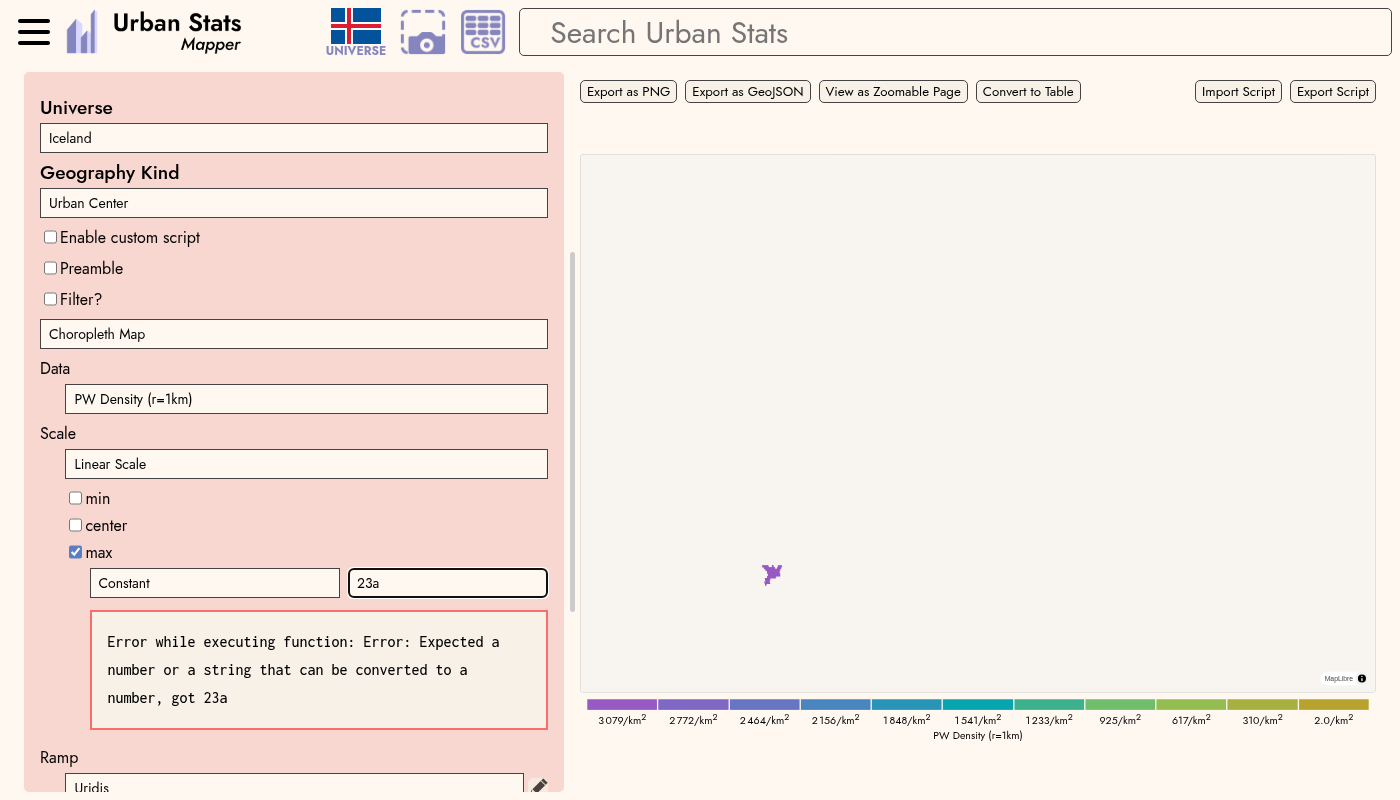
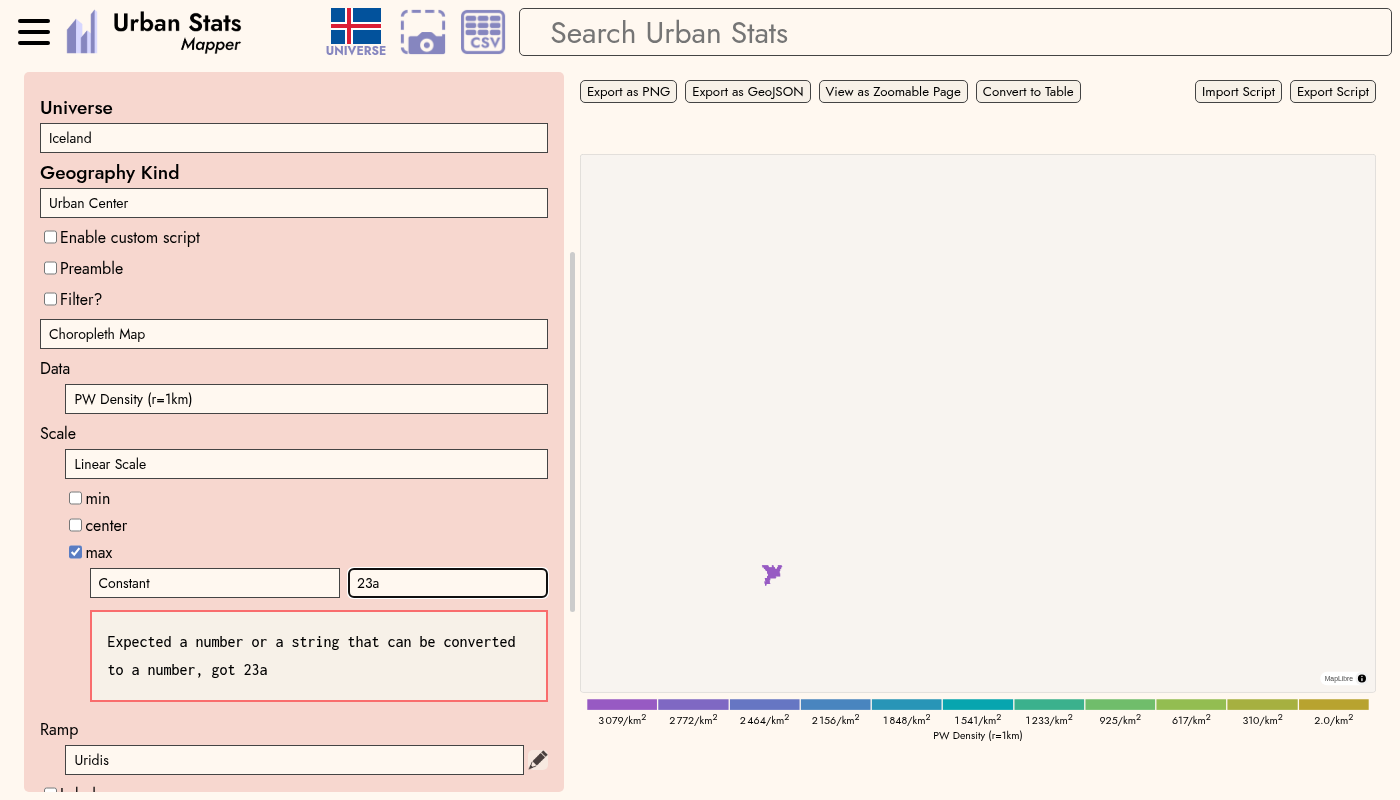
Drop "Error while executing function" from USS runtime errors
An error thrown by a builtin arrived wrapped twice, as `Error while executing
function: Error: Ramp must start at 0 and end at 1 at 1:1-83`. The phrase says
nothing the location does not, and the `Error:` in the middle is the constructor
name of an error nobody chose deliberately. What is left is the message the
builtin wrote and the place it happened.

It reads worst where the error comes from the platform rather than from us: an
invalid regex was `Error while executing function: SyntaxError: Invalid regular
expression: /(/: Unterminated group`, three prefixes before the sentence.

The mapper shows these to the user, so the reference screenshot for the custom
expression error case moves with it.

Changed region(s): [[0.0307, 0.7812, 0.3993, 1.0]]

diff --git a/react/unit/urban-stats-script-evaluate.test.ts b/react/unit/urban-stats-script-evaluate.test.ts
@@ -677,7 +677,7 @@ void test('more if expressions', (): void => {
                 ['f', undocValue(testFn1, testFnType)],
             ]))),
             (err: Error): boolean => {
-                return err instanceof InterpretationError && err.message === 'Error while executing function: Error: no default value for function type (number; a: number) -> number at 5:9-17'
+                return err instanceof InterpretationError && err.message === 'no default value for function type (number; a: number) -> number at 5:9-17'
             },
         )
     }
@@ -1276,7 +1276,7 @@ void test('colors', (): void => {
     assert.throws(
         () => evaluate(parseExpr('rgb(2, 0, 0)'), emptyContext()),
         (err: Error): boolean => {
-            return err instanceof Error && err.message === 'Error while executing function: Error: RGB values must be between 0 and 1, got (2, 0, 0, 1) at 1:1-12'
+            return err instanceof Error && err.message === 'RGB values must be between 0 and 1, got (2, 0, 0, 1) at 1:1-12'
         },
     )
     assert.deepStrictEqual(
@@ -1290,7 +1290,7 @@ void test('colors', (): void => {
     assert.throws(
         () => evaluate(parseExpr('hsv(400, 1, 0.5)'), emptyContext()),
         (err: Error): boolean => {
-            return err instanceof Error && err.message === 'Error while executing function: Error: HSV values must be (hue: 0-360, saturation: 0-1, value: 0-1, alpha: 0-1), got (400, 1, 0.5, 1) at 1:1-16'
+            return err instanceof Error && err.message === 'HSV values must be (hue: 0-360, saturation: 0-1, value: 0-1, alpha: 0-1), got (400, 1, 0.5, 1) at 1:1-16'
         },
     )
     assert.throws(
@@ -1330,7 +1330,7 @@ void test('ramps', (): void => {
     assert.throws(
         () => evaluate(parseExpr('constructRamp([{value: 0.1, color: rgb(0, 0, 0)}, {value: 1, color: rgb(1, 1, 1)}])'), emptyContext()),
         (err: Error): boolean => {
-            return err instanceof InterpretationError && err.message === 'Error while executing function: Error: Ramp must start at 0 and end at 1 at 1:1-83'
+            return err instanceof InterpretationError && err.message === 'Ramp must start at 0 and end at 1 at 1:1-83'
         },
     )
 
@@ -1338,7 +1338,7 @@ void test('ramps', (): void => {
     assert.throws(
         () => evaluate(parseExpr('constructRamp([{value: 0, color: rgb(0, 0, 0)}, {value: 0.9, color: rgb(1, 1, 1)}])'), emptyContext()),
         (err: Error): boolean => {
-            return err instanceof Error && err.message === 'Error while executing function: Error: Ramp must start at 0 and end at 1 at 1:1-83'
+            return err instanceof Error && err.message === 'Ramp must start at 0 and end at 1 at 1:1-83'
         },
     )
 
@@ -1346,7 +1346,7 @@ void test('ramps', (): void => {
     assert.throws(
         () => evaluate(parseExpr('constructRamp([{value: 0, color: rgb(0, 0, 0)}, {value: 0.8, color: rgb(0.5, 0.5, 0.5)}, {value: 0.6, color: rgb(1, 1, 1)}, {value: 1.0, color: rgb(1, 1, 1)}])'), emptyContext()),
         (err: Error): boolean => {
-            return err instanceof Error && err.message === 'Error while executing function: Error: Ramp values must be strictly increasing, found 0.8 >= 0.6 at index 1 at 1:1-159'
+            return err instanceof Error && err.message === 'Ramp values must be strictly increasing, found 0.8 >= 0.6 at index 1 at 1:1-159'
         },
     )
 
@@ -1552,7 +1552,7 @@ void test('error map with different geo and data lengths', () => {
     assert.throws(
         () => evaluate(parseExpr('cMap(geo=geo, data=[1], scale=linearScale(), ramp=rampBone)'), ctx),
         (err: Error): boolean => {
-            return err.message === 'Error while executing function: Error: geo and data must have the same length: 2 and 1 at 1:1-59'
+            return err.message === 'geo and data must have the same length: 2 and 1 at 1:1-59'
         },
     )
 })

diff --git a/react/test/mapper-ux_x2.test.ts b/react/test/mapper-ux_x2.test.ts
@@ -48,7 +48,7 @@ mapper(() => test)('do not re quote when selecting custom expression again', { c
 
 for (const [typedValue, errorCase, inCode, simplifiedValue] of [['0.001', false, '0.001', '0.001'], ['23.000', false, '23', '23'], ['23a', true, 'toNumber("23a")', '23a']] as const) {
     mapper(() => test)(`${typedValue} through custom expression toggle to ${simplifiedValue}`, { code: 'customNode("");\ncondition (true)\ncMap(data=density_pw_1km, scale=linearScale(), ramp=rampUridis)' }, async (t) => {
-        const messages = errorCase ? ['Error while executing function: Error: Expected a number or a string that can be converted to a number, got 23a'] : []
+        const messages = errorCase ? ['Expected a number or a string that can be converted to a number, got 23a'] : []
         await checkBox(t, /^max/)
         await replaceInput(t, '0', typedValue)
         await t.expect(getErrors()).eql(messages)

diff --git a/react/src/urban-stats-script/forward-broadcasting.ts b/react/src/urban-stats-script/forward-broadcasting.ts
@@ -297,7 +297,7 @@ function mapSeveral(
             if (e instanceof InterpretationError) {
                 throw e
             }
-            throw ctx.error(`Error while executing function: ${e}`, locInfo)
+            throw ctx.error(e instanceof Error ? e.message : String(e), locInfo)
         }
     }
     assert(Array.isArray(fn), `Expected an array of functions, but got ${typeof fn}`)
